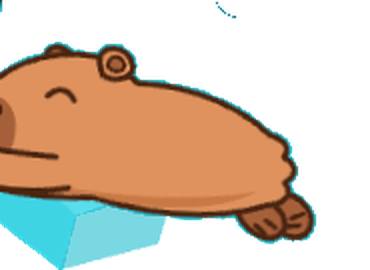
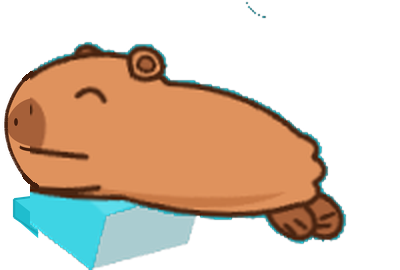
fix(welcome): restore full uncropped capybara nose and body (#15)

diff --git a/src/components/AnimatedWelcome.tsx b/src/components/AnimatedWelcome.tsx
@@ -93,7 +93,7 @@ export default function AnimatedWelcome({ onNavigate }: AnimatedWelcomeProps) {
         <Image
           src="/assets/welcome_capybara.png"
           alt="Travel OS Mascot"
-          width={185}
+          width={200}
           height={135}
           priority
           className="object-contain w-44 sm:w-48 h-auto"
@@ -125,10 +125,16 @@ export default function AnimatedWelcome({ onNavigate }: AnimatedWelcomeProps) {
         </div>
 
         {/* Main Headline */}
-        <h1 className="text-[38px] sm:text-[45px] font-black text-white leading-[1.22] tracking-tight drop-shadow-xs mt-8 text-center">
-          여행 준비,<br />
-          여기서 끝내요.
+
+        <h1 className="text-[50px] sm:text-[46px] font-['Pretendard_Variable'] font-black leading-[1.12] tracking-[-0.045em] drop-shadow-[0_2px_2px_rgba(0,0,0,0.12)] mt-8 text-center">
+          <span className="block text-white">
+            여행 준비,
+          </span>
+          <span className="block text-[#C8FFE8]">
+            여기서 끝내요.
+          </span>
         </h1>
+
 
         {/* Sub-headline */}
         <p className="text-base sm:text-lg font-bold text-white/95 leading-relaxed mt-4 drop-shadow-2xs text-center">
